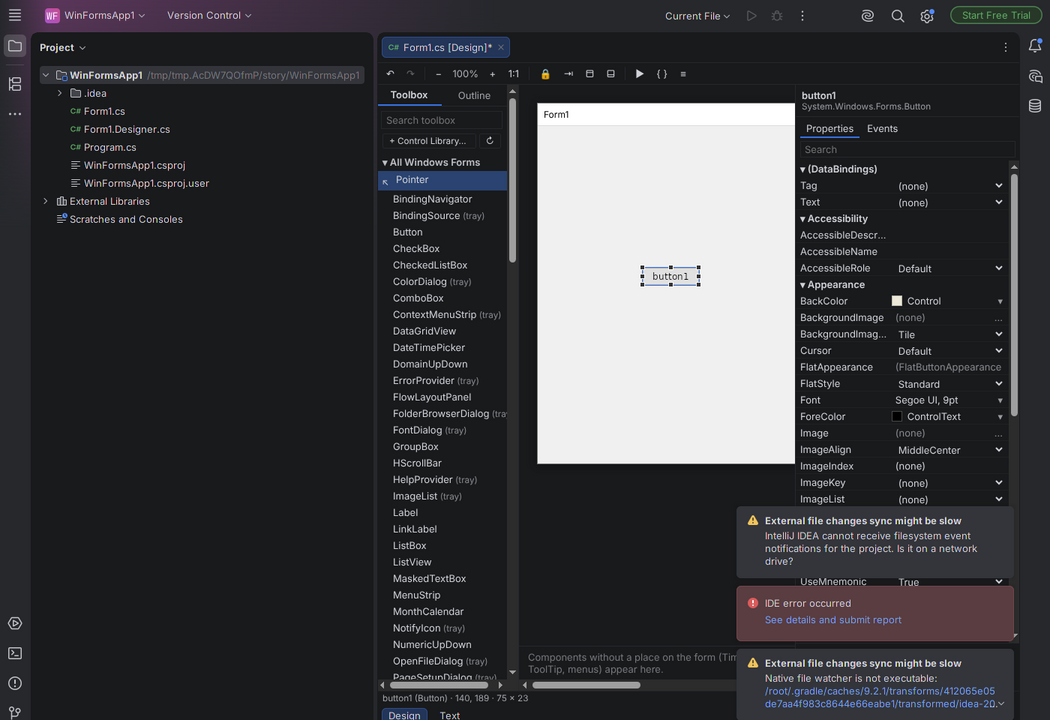
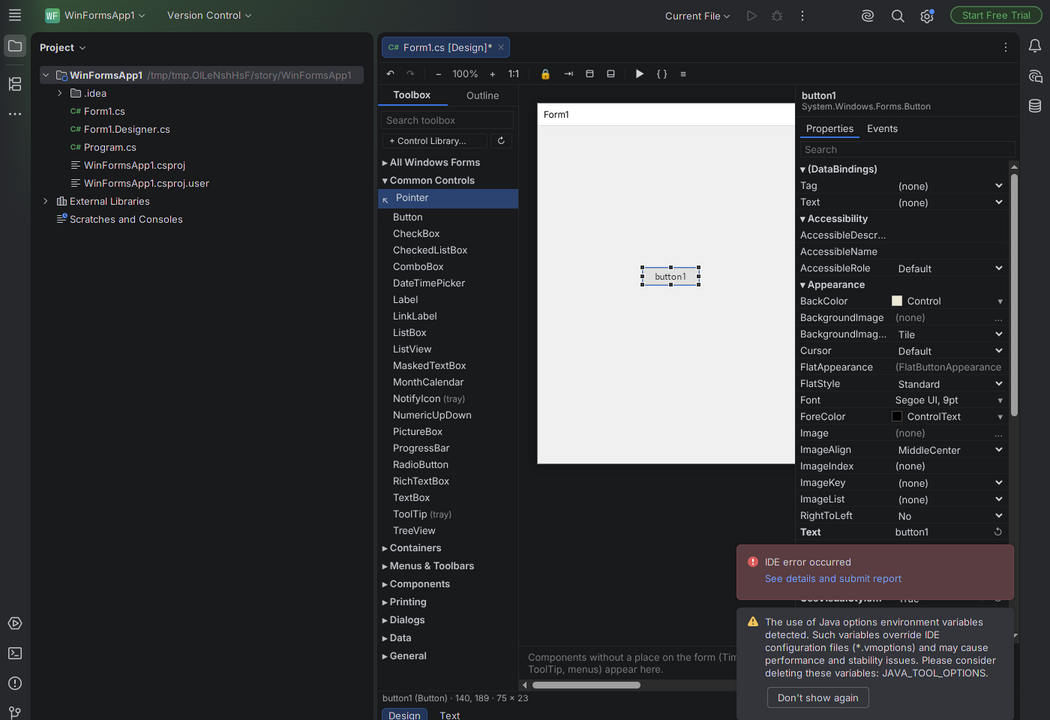
Build against IntelliJ IDEA 2026.2.4 by default (Rider via -PbuildAgainst=rider); project controls in the toolbox for trusted projects; story script updated; fresh screenshots
Claude-Session: https://claude.ai/code/session_01T3cejAPcCPi5Z566TCgWWi

diff --git a/src/test/kotlin/dev/formwork/CodeGenerationTest.kt b/src/test/kotlin/dev/formwork/CodeGenerationTest.kt
@@ -1,0 +1,160 @@
+package dev.formwork
+
+import com.google.gson.JsonArray
+import com.google.gson.JsonObject
+import dev.formwork.host.HostClient
+import org.junit.jupiter.api.Assertions.assertEquals
+import org.junit.jupiter.api.Assertions.assertFalse
+import org.junit.jupiter.api.Assertions.assertTrue
+import org.junit.jupiter.api.Test
+import java.io.File
+
+/** Group E of the brief: the code the designer writes, checked against what Visual Studio writes. */
+class CodeGenerationTest {
+    /** A form open in the host, with Formwork's buffer handling: writes are kept as the "editor" texts. */
+    private class Session(sample: String) : AutoCloseable {
+        val dir = TestSupport.copySample(sample)
+        val designer = File(dir.listFiles()!!.first { it.isDirectory }, "Form1.Designer.cs")
+        val code = File(designer.parentFile, "Form1.cs")
+        val resx = File(designer.parentFile, "Form1.resx")
+        val buffers = mutableMapOf<String, String?>(
+            designer.path to designer.readText().removePrefix("").replace("\r\n", "\n"),
+            code.path to code.readText().removePrefix("").replace("\r\n", "\n"),
+            resx.path to resx.takeIf { it.isFile }?.readText()?.removePrefix("")?.replace("\r\n", "\n"),
+        )
+        val host: HostClient = TestSupport.startHost()
+        var view: JsonObject
+
+        init {
+            view = host.call("open", JsonObject().apply { addProperty("path", designer.path) }, buffers).result!!.asJsonObject
+        }
+
+        fun apply(vararg ops: JsonObject): JsonObject {
+            val r = host.call("apply", JsonObject().apply { add("ops", JsonArray().apply { ops.forEach(::add) }) }, buffers)
+            buffers.putAll(r.writes)
+            view = r.result!!.asJsonObject
+            return view
+        }
+
+        val designerText get() = buffers[designer.path]!!
+        val codeText get() = buffers[code.path]!!
+        fun ids() = view.getAsJsonArray("items").map { it.asJsonObject.get("id").asString }
+        override fun close() = host.close()
+    }
+
+    private fun op(name: String, vararg pairs: Pair<String, Any>) = JsonObject().apply {
+        addProperty("op", name)
+        for ((k, v) in pairs) when (v) { is Number -> addProperty(k, v); else -> addProperty(k, v.toString()) }
+    }
+    private fun newControl(type: String, x: Int = 10, y: Int = 10) = op("add", "type" to "System.Windows.Forms.$type", "parent" to "", "x" to x, "y" to y)
+
+    @Test
+    fun `new controls get Visual Studio's names`() = Session("VsTemplate.Net8").use { s ->
+        s.apply(newControl("Button"), newControl("Button", y = 40), newControl("TextBox", y = 70), newControl("Label", y = 100), newControl("CheckBox", y = 130))
+        assertEquals(setOf("button1", "button2", "textBox1", "label1", "checkBox1"), s.ids().toSet())
+        assertTrue(s.designerText.contains("private Button button2;"))
+        assertTrue(s.designerText.contains("private TextBox textBox1;"))
+    }
+
+    @Test
+    fun `deleting a control removes its designer code but keeps its handler`() = Session("VsTemplate.Net8").use { s ->
+        s.apply(newControl("Button"))
+        s.apply(op("setEvent", "id" to "button1", "event" to "Click", "handler" to "button1_Click"))
+        s.apply(op("remove", "id" to "button1"))
+        assertFalse(s.designerText.contains("button1"), "designer code for button1 is gone")
+        assertTrue(s.codeText.contains("private void button1_Click(object sender, EventArgs e)"), "the handler stays, as in VS")
+    }
+
+    @Test
+    fun `binding an existing handler doesn't write a second one`() = Session("VsTemplate.Net8").use { s ->
+        s.apply(newControl("Button"))
+        s.apply(op("setEvent", "id" to "button1", "event" to "Click", "handler" to "button1_Click"))
+        val again = s.apply(op("setEvent", "id" to "button1", "event" to "Click", "handler" to "button1_Click"))
+        assertEquals(1, Regex("void button1_Click\\(").findAll(s.codeText).count())
+        assertFalse(again.get("handler")?.asJsonObject?.get("created")?.asBoolean == true)
+    }
+
+    @Test
+    fun `renaming renames the field, its handlers and uses in Form1_cs`() = Session("VsTemplate.Net8").use { s ->
+        s.apply(newControl("Button"))
+        s.apply(op("setEvent", "id" to "button1", "event" to "Click", "handler" to "button1_Click"))
+        // Code Jacob wrote himself, using the button.
+        val code = s.codeText.replace("private void button1_Click(object sender, EventArgs e)\n    {\n\n    }", "private void button1_Click(object sender, EventArgs e)\n    {\n        button1.Text = \"Hi\";\n    }")
+        s.buffers[s.code.path] = code
+        s.apply(op("rename", "id" to "button1", "value" to "btnHello"))
+        assertTrue(s.designerText.contains("private Button btnHello;"))
+        assertTrue(s.designerText.contains("btnHello.Click += btnHello_Click;"))
+        assertTrue(s.codeText.contains("private void btnHello_Click(object sender, EventArgs e)"), s.codeText)
+        assertTrue(s.codeText.contains("btnHello.Text = \"Hi\";"), s.codeText)
+        assertFalse(s.codeText.contains("button1"))
+    }
+
+    @Test
+    fun `the old this-dot style of a designer file is kept`() {
+        // A .NET Framework-era file, as Visual Studio 2019 and older wrote it.
+        val dir = TestSupport.copySample("VsTemplate.Net8")
+        val proj = dir.listFiles()!!.first { it.isDirectory }
+        File(proj, "Form1.Designer.cs").writeText(OLD_STYLE)
+        File(proj, "Form1.cs").writeText("namespace WinFormsApp1\n{\n    public partial class Form1 : System.Windows.Forms.Form\n    {\n        public Form1()\n        {\n            InitializeComponent();\n        }\n    }\n}\n")
+        TestSupport.startHost().use { host ->
+            host.call("open", JsonObject().apply { addProperty("path", File(proj, "Form1.Designer.cs").path) })
+            val r = host.call("apply", JsonObject().apply { add("ops", JsonArray().apply { add(newControl("Button")) }) })
+            val text = r.writes[File(proj, "Form1.Designer.cs").path]!!
+            assertTrue(text.contains("this.button1 = new System.Windows.Forms.Button();"), text)
+            assertTrue(text.contains("this.button1.Location = new System.Drawing.Point(10, 10);"), text)
+            assertTrue(text.contains("private System.Windows.Forms.Button button1;"), text)
+            assertTrue(text.contains("this.Controls.Add(this.button1);"), text)
+        }
+    }
+
+    companion object {
+        val OLD_STYLE = """
+namespace WinFormsApp1
+{
+    partial class Form1
+    {
+        /// <summary>
+        /// Required designer variable.
+        /// </summary>
+        private System.ComponentModel.IContainer components = null;
+
+        /// <summary>
+        /// Clean up any resources being used.
+        /// </summary>
+        /// <param name="disposing">true if managed resources should be disposed; otherwise, false.</param>
+        protected override void Dispose(bool disposing)
+        {
+            if (disposing && (components != null))
+            {
+                components.Dispose();
+            }
+            base.Dispose(disposing);
+        }
+
+        #region Windows Form Designer generated code
+
+        /// <summary>
+        /// Required method for Designer support - do not modify
+        /// the contents of this method with the code editor.
+        /// </summary>
+        private void InitializeComponent()
+        {
+            this.SuspendLayout();
+            // 
+            // Form1
+            // 
+            this.AutoScaleDimensions = new System.Drawing.SizeF(6F, 13F);
+            this.AutoScaleMode = System.Windows.Forms.AutoScaleMode.Font;
+            this.ClientSize = new System.Drawing.Size(800, 450);
+            this.Name = "Form1";
+            this.Text = "Form1";
+            this.ResumeLayout(false);
+
+        }
+
+        #endregion
+    }
+}
+""".trimStart()
+    }
+}

diff --git a/src/main/kotlin/dev/formwork/editor/DesignerSession.kt b/src/main/kotlin/dev/formwork/editor/DesignerSession.kt
@@ -96,15 +96,16 @@ class DesignerSession(
                 "ready" -> {
                     log.info("Designer page ready for ${form.designer}")
                     val h = ensureHost()
+                    loadLibraries(h)
                     val view = h.call("open", JsonObject().apply { addProperty("path", form.designer.path) }, files()).result!!.asJsonObject
                     lastView = view
-                    val toolbox = ToolboxModel.vsOrder(h.call("toolbox").result)
+                    val toolbox = toolbox(h)
                     listenToDocuments()
                     post(JsonObject().apply {
                         addProperty("type", "init")
                         add("view", view)
                         add("toolbox", toolbox)
-                        if (!project.isTrusted()) addProperty("notice", "This project isn't trusted, so only the built-in controls are shown (your project's own controls would run its code).")
+                        libraryNotice()?.let { addProperty("notice", it) }
                         addProperty("snap", FormworkSettings.getInstance().state.snapToLines)
                         add("strings", JsonObject())
                     })
@@ -164,6 +165,56 @@ class DesignerSession(
             "setEvent" -> "Event Handler"
             "rename" -> "Rename"
             else -> COMMAND_NAME
+        }
+    }
+
+    // ---- the project's own controls ---------------------------------------------------------------------
+
+    @Volatile private var libraries = dev.formwork.project.ProjectLibraries(null, null)
+    private var loadedSignature = ""
+
+    /**
+     * Loads the project's last build into the host, so its own controls and UserControls draw and appear in the
+     * toolbox - only when Rider trusts the project, because that runs the project's code (as Visual Studio does).
+     */
+    private fun loadLibraries(h: HostClient): Boolean {
+        libraries = dev.formwork.project.ProjectLibraries.of(form.code.parentFile)
+        val output = libraries.output
+        val signature = if (project.isTrusted() && output != null) libraries.signature() else ""
+        if (signature == loadedSignature) return false
+        loadedSignature = signature
+        val assemblies = JsonArray().apply { if (signature.isNotEmpty()) add(output!!.path) }
+        return try {
+            val r = h.call("libraries", JsonObject().apply { add("assemblies", assemblies) }, files()).result?.asJsonObject
+            r?.getAsJsonArray("errors")?.forEach { log.warn("Project controls: ${it.asString}") }
+            true
+        } catch (e: HostException) {
+            log.warn("Could not load the project's controls: ${e.message}")
+            false
+        }
+    }
+
+    private fun toolbox(h: HostClient): JsonArray {
+        val groups = if (project.isTrusted()) libraries.groups() else JsonArray()
+        val raw = try { h.call("toolbox", JsonObject().apply { add("libraries", groups) }).result } catch (_: HostException) { h.call("toolbox").result }
+        return ToolboxModel.vsOrder(raw)
+    }
+
+    private fun libraryNotice(): String? = when {
+        !project.isTrusted() -> "This project isn't trusted, so only the built-in controls are shown: showing your own controls would run the project's code."
+        else -> null
+    }
+
+    /** After a build: the project's controls are loaded again, and the toolbox shows them. */
+    fun librariesChanged() {
+        if (disposed) return
+        worker.execute {
+            try {
+                val h = host?.takeIf { it.alive } ?: return@execute
+                if (!loadLibraries(h)) return@execute
+                reopen()
+                post(JsonObject().apply { addProperty("type", "toolbox"); add("toolbox", toolbox(h)); libraryNotice()?.let { addProperty("notice", it) } })
+            } catch (e: Throwable) { report(e) }
         }
     }
 

diff --git a/src/main/kotlin/dev/formwork/project/ProjectLibraries.kt b/src/main/kotlin/dev/formwork/project/ProjectLibraries.kt
@@ -1,0 +1,68 @@
+package dev.formwork.project
+
+import com.google.gson.JsonArray
+import com.google.gson.JsonObject
+import java.io.File
+
+/**
+ * The project's own controls and UserControls for the toolbox, from its last build (VS shows them in a
+ * "<Project> Components" group after a build). Ported from NetForms' designer/src/libraries.ts (the parts
+ * a single project needs). Loading them runs the project's code, so the caller only loads them when the
+ * project is trusted.
+ */
+class ProjectLibraries(val projectFile: File?, val output: File?) {
+    val projectName: String? get() = projectFile?.name?.removeSuffix(".csproj")
+
+    /** Toolbox groups for the host's `toolbox` request. */
+    fun groups(): JsonArray = JsonArray().apply {
+        if (output != null && projectName != null) add(JsonObject().apply {
+            addProperty("id", "project")
+            addProperty("name", "$projectName Components")
+            add("assemblies", JsonArray().apply { add(output.path) })
+        })
+    }
+
+    /** What changes when the project is rebuilt (to reload only when needed). */
+    fun signature(): String = output?.let { "${it.path}@${it.lastModified()}" } ?: ""
+
+    companion object {
+        private val skip = Regex("^(publish|runtimes|ref|refint)$", RegexOption.IGNORE_CASE)
+
+        /** The first .csproj in the form's folder or a folder above it (the form's project). */
+        fun projectFileOf(formDir: File): File? {
+            var dir: File? = formDir
+            var depth = 0
+            while (dir != null && depth < 8) {
+                dir.listFiles { f -> f.isFile && f.name.endsWith(".csproj", ignoreCase = true) }?.minByOrNull { it.name }?.let { return it }
+                dir = dir.parentFile
+                depth++
+            }
+            return null
+        }
+
+        fun assemblyName(projectFile: File): String {
+            val text = try { projectFile.readText() } catch (_: Exception) { "" }
+            return Regex("<AssemblyName>\\s*([^<]+?)\\s*</AssemblyName>").find(text)?.groupValues?.get(1)
+                ?.takeIf { !it.contains("$(") } ?: projectFile.name.removeSuffix(".csproj")
+        }
+
+        /** The newest bin/<Configuration>/<tfm>[/<rid>]/<AssemblyName>.dll that has its .deps.json beside it. */
+        fun findOutput(projectFile: File): File? {
+            val name = assemblyName(projectFile).lowercase() + ".dll"
+            val found = ArrayList<File>()
+            fun visit(dir: File, depth: Int) {
+                for (f in dir.listFiles() ?: return) {
+                    if (f.isDirectory) { if (depth < 3 && !skip.matches(f.name)) visit(f, depth + 1) }
+                    else if (f.name.lowercase() == name && File(f.parentFile, f.name.dropLast(4) + ".deps.json").isFile) found.add(f)
+                }
+            }
+            visit(File(projectFile.parentFile, "bin"), 0)
+            return found.maxByOrNull { it.lastModified() }
+        }
+
+        fun of(formDir: File): ProjectLibraries {
+            val project = projectFileOf(formDir)
+            return ProjectLibraries(project, project?.let(::findOutput))
+        }
+    }
+}

diff --git a/src/main/kotlin/dev/formwork/editor/DesignerEditor.kt b/src/main/kotlin/dev/formwork/editor/DesignerEditor.kt
@@ -75,6 +75,19 @@ class DesignerEditor(private val project: Project, private val file: VirtualFile
             b.loadHTML(WebviewPage.html("function(text){${q.inject("text")}}", ThemeCss.css(), initialWebviewState()))
             panel.add(b.component, BorderLayout.CENTER)
             val bus = ApplicationManager.getApplication().messageBus.connect(this)
+            // A build writes the project's bin/ folder: its controls are loaded again once it has settled.
+            val projectDir = dev.formwork.project.ProjectLibraries.projectFileOf(form.code.parentFile)?.parentFile?.path
+            if (projectDir != null) {
+                val alarm = com.intellij.util.Alarm(com.intellij.util.Alarm.ThreadToUse.POOLED_THREAD, this)
+                bus.subscribe(com.intellij.openapi.vfs.VirtualFileManager.VFS_CHANGES, object : com.intellij.openapi.vfs.newvfs.BulkFileListener {
+                    override fun after(events: List<com.intellij.openapi.vfs.newvfs.events.VFileEvent>) {
+                        if (events.any { it.path.startsWith("$projectDir/bin/") && it.path.endsWith(".dll") }) {
+                            alarm.cancelAllRequests()
+                            alarm.addRequest({ session.librariesChanged() }, 1500)
+                        }
+                    }
+                })
+            }
             bus.subscribe(LafManagerListener.TOPIC, LafManagerListener { refreshTheme() })
             bus.subscribe(EditorColorsManager.TOPIC, EditorColorsListener { refreshTheme() })
         } else {
